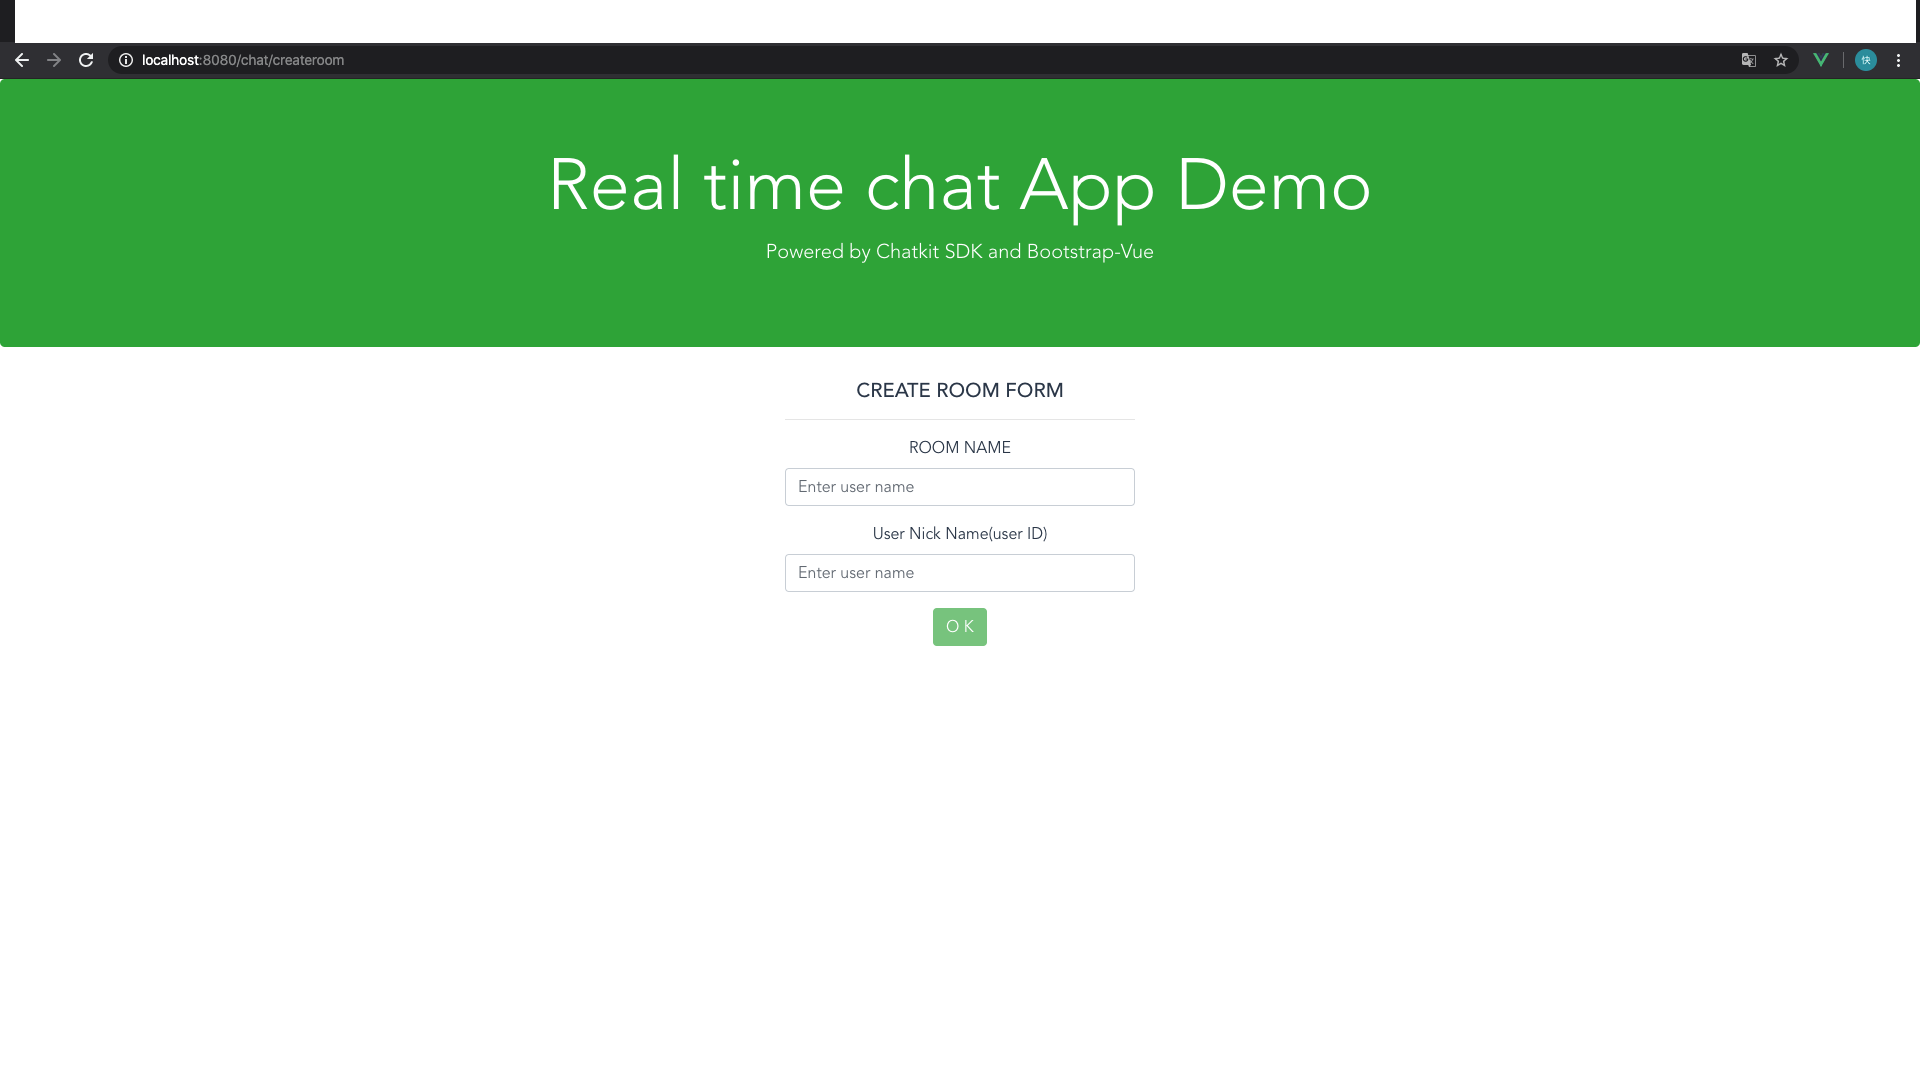
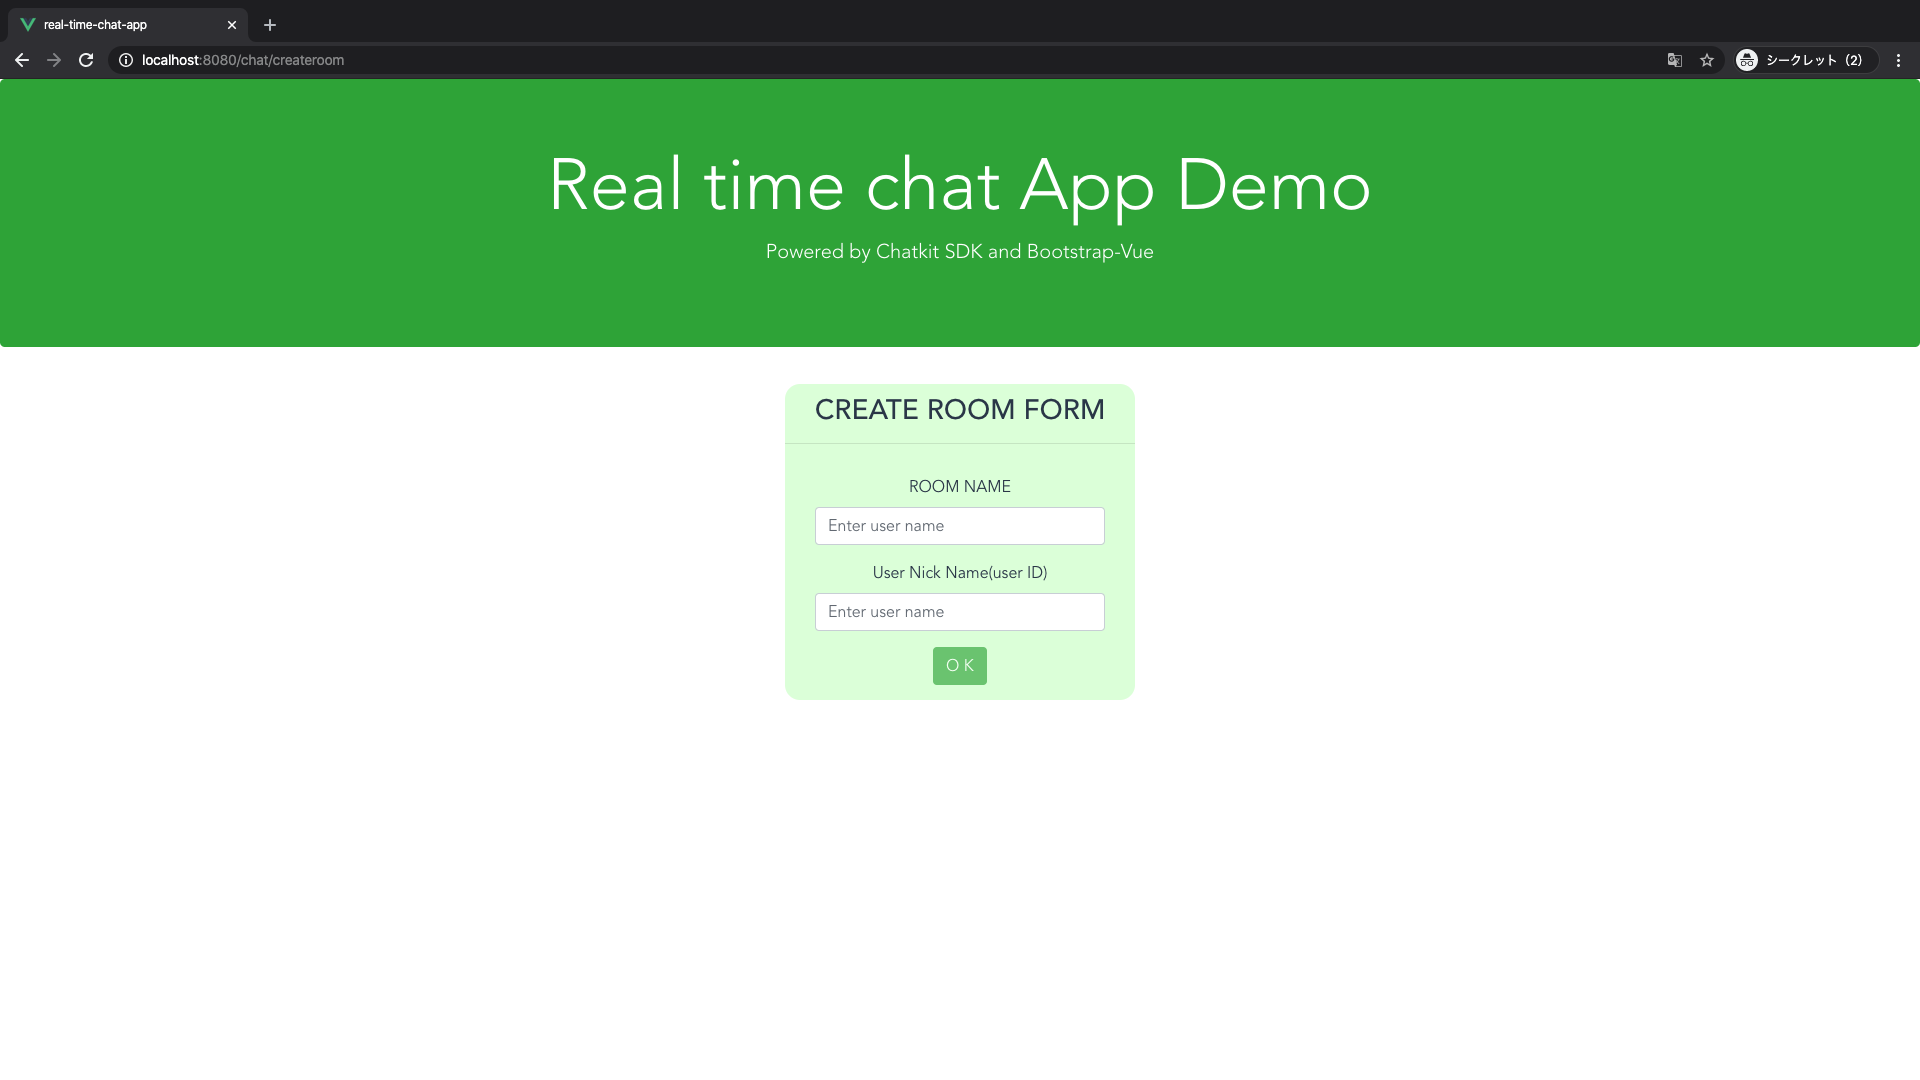
写真の更新

Changed region(s): [[0.4062, 0.3361, 0.5938, 0.6722], [0.0, 0.0, 1.0, 0.0611]]

diff --git a/src/components/CreateRoomForm.vue b/src/components/CreateRoomForm.vue
@@ -1,8 +1,8 @@
 <template>
   <div class="login-form">
-    <h5 class="text-center">CREATE ROOM FORM</h5>
+    <h3 class="text-center" style="padding-top:10px">CREATE ROOM FORM</h3>
     <hr />
-    <b-form @submit.prevent="onSubmit">
+    <b-form @submit.prevent="onSubmit" class="form">
       <b-alert variant="danger" :show="hasError">{{ error }}</b-alert>
       <b-form-group id="userFullNameInputGroup" label="ROOM NAME" label-for="RoomNameInput">
         <b-form-input
@@ -80,3 +80,18 @@ export default {
   }
 };
 </script>
+
+<style scoped>
+.form{
+  margin: 15px;
+  padding: 15px;
+
+}
+.login-form{
+  margin-top: 5px;
+  margin-bottom: 5px;
+  border-radius: 15px;
+   background-color: #DEFFDE;
+}
+
+</style>

diff --git a/src/views/JoinRoom.vue b/src/views/JoinRoom.vue
@@ -76,4 +76,5 @@ export default {
   border-radius: 15px;
   margin-right: 40px;
 }
+
 </style>
